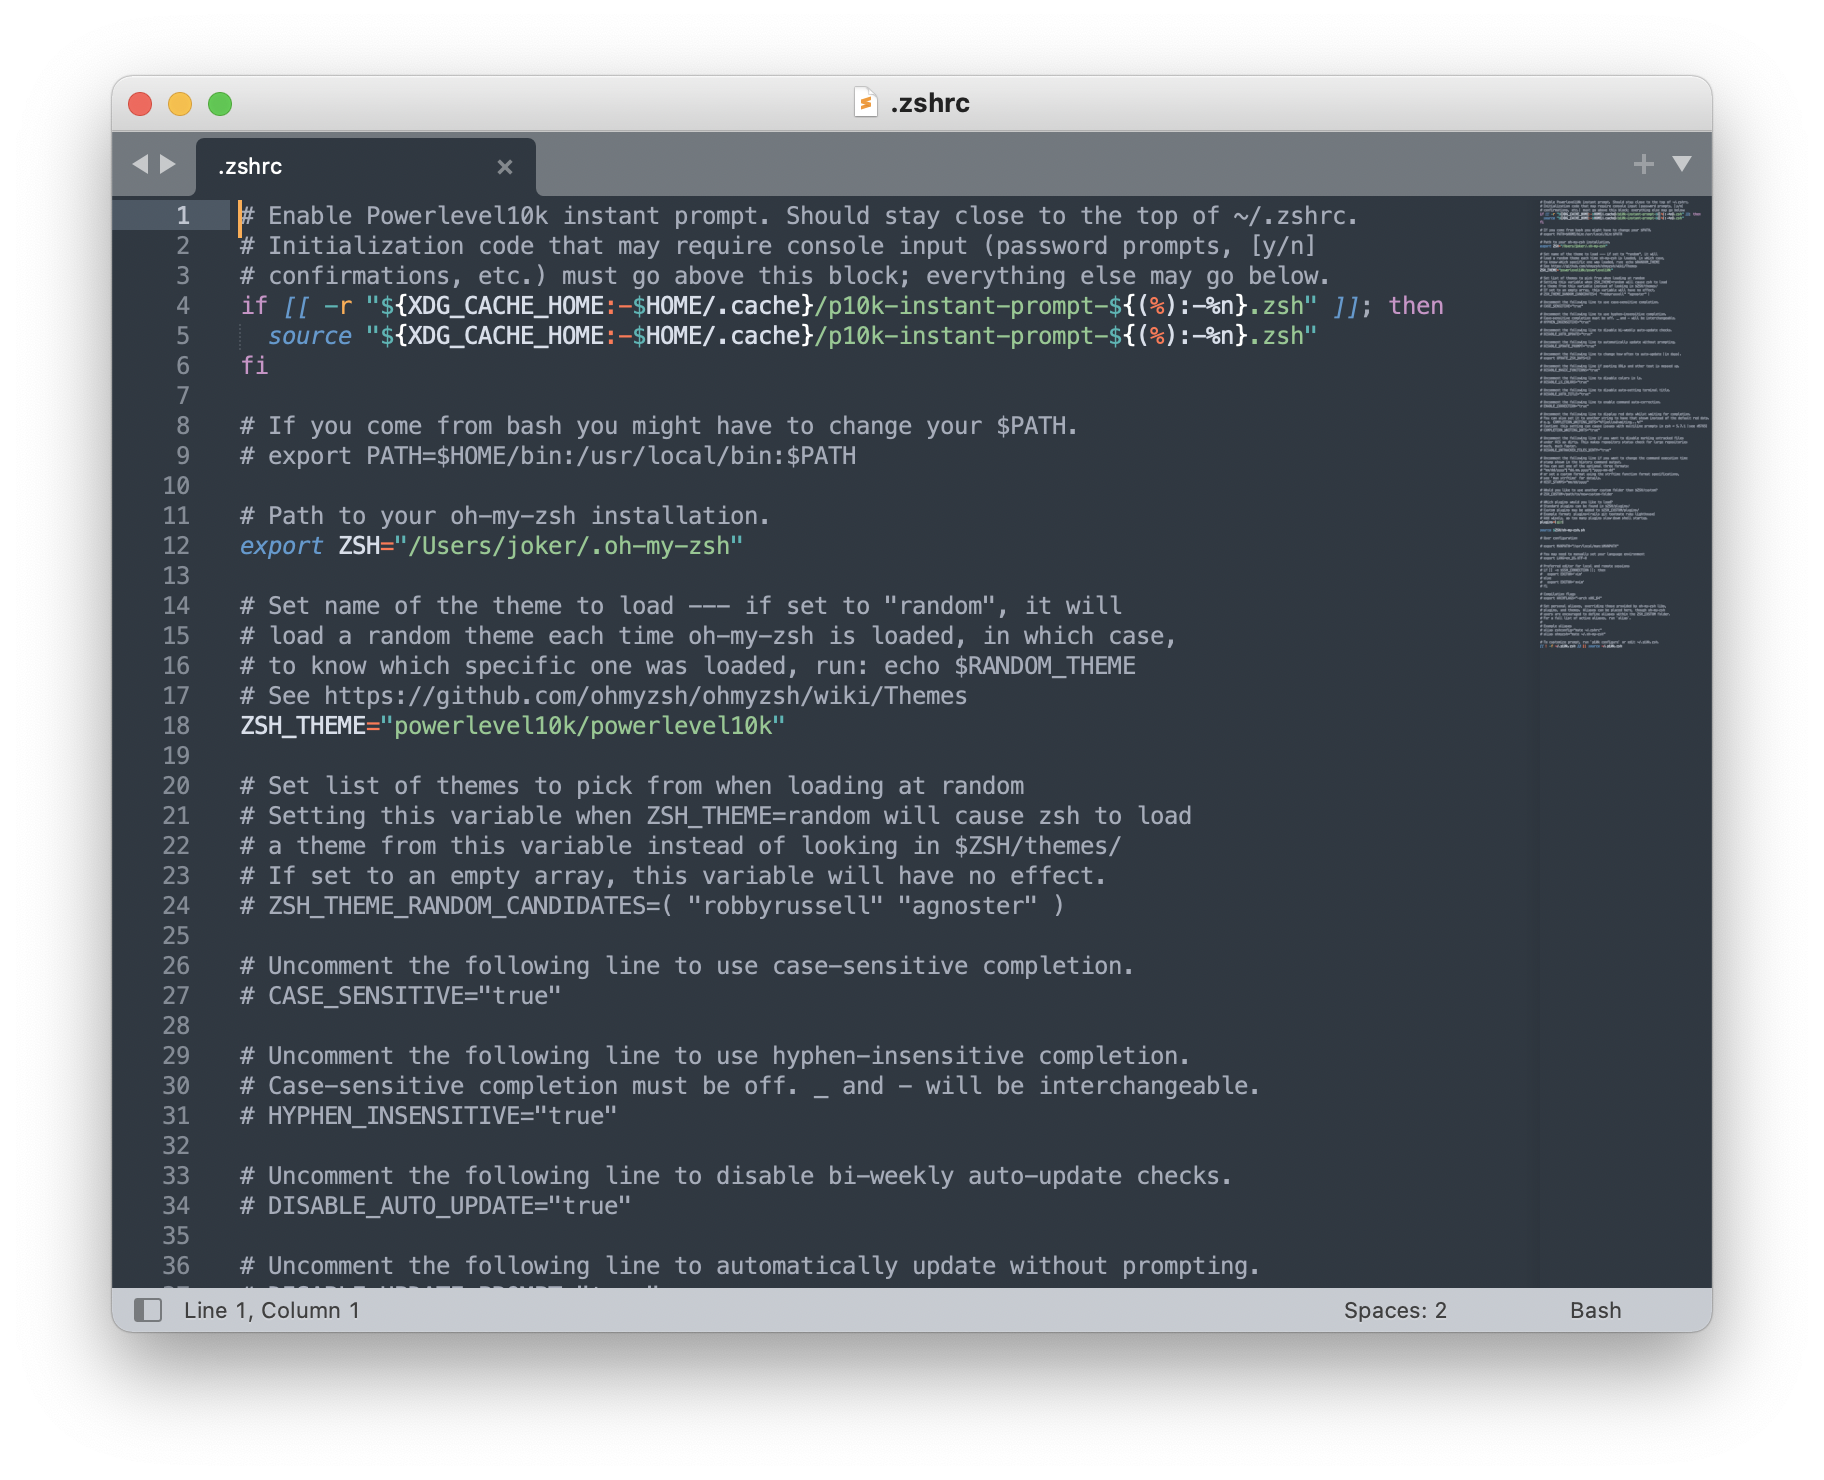
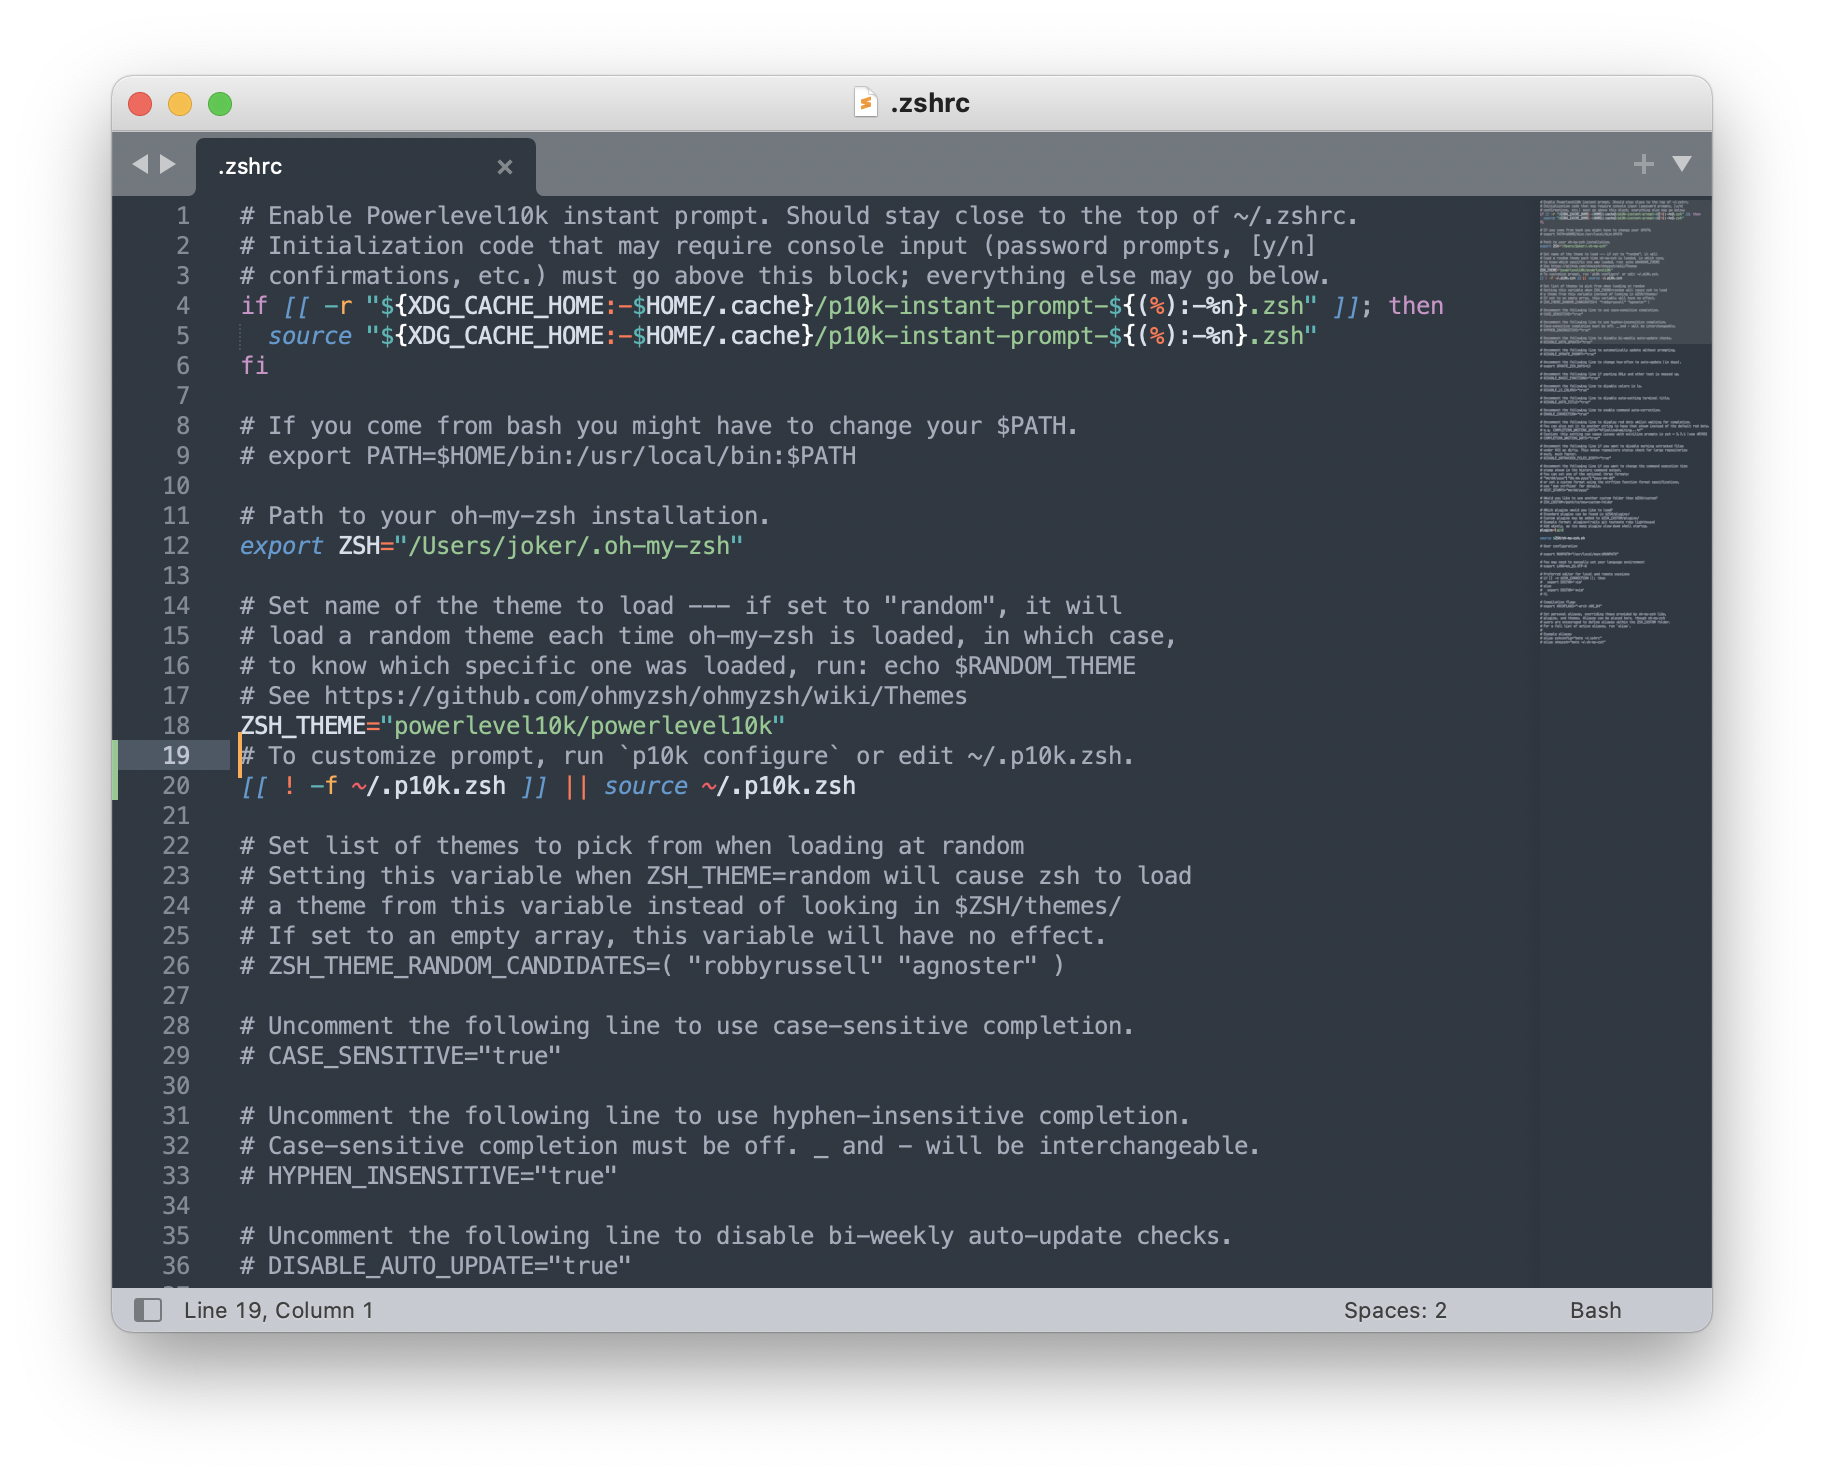
Updated

diff --git a/start-from-terminal.md b/start-from-terminal.md
@@ -282,10 +282,8 @@ brew install --cask font-sauce-code-pro-nerd-font
 现在，再安装 Terminal 的 [Powerlevel10K Theme](https://github.com/romkatv/powerlevel10k) for zsh：
 
 ```bash
-git clone --depth=1 https://github.com/romkatv/powerlevel10k.git ${ZSH_CUSTOM:-$HOME/.oh-my-zsh/custom}/themes/powerlevel10k
-
-# 中国大陆用户没有 VPN 的情况下，可以用 gitee.com 上的镜像
-# git clone --depth=1 https://gitee.com/romkatv/powerlevel10k.git ${ZSH_CUSTOM:-$HOME/.oh-my-zsh/custom}/themes/powerlevel10k
+brew install romkatv/powerlevel10k/powerlevel10k
+echo "source $(brew --prefix)/opt/powerlevel10k/powerlevel10k.zsh-theme" >>~/.zshrc
 ```
 
 为了随后的方便，再安装一个文本编辑器（免费，但也可以缴费注册）
@@ -302,10 +300,10 @@ brew install sublime-text
 subl ~/.zshrc
 ```
 
-在 `~/.zshrc` 这个文件里，已经有很多内容（都是之前安装 Oh-My-Zsh）的时候生成的。在里面找到有 `ZSH_THEME=...` 的哪一行，将它改成：
+在 `~/.zshrc` 这个文件里，已经有很多内容（都是之前安装 Oh-My-Zsh）的时候生成的。在里面找到有 `ZSH_THEME="robbyrussell"` 的那一行，将它改成：
 
 ```bash
-ZSH_THEME="powerlevel10k/powerlevel10k
+ZSH_THEME="powerlevel10k/powerlevel10k"
 ```
 
 ![](images/subl-zshrc.png)
